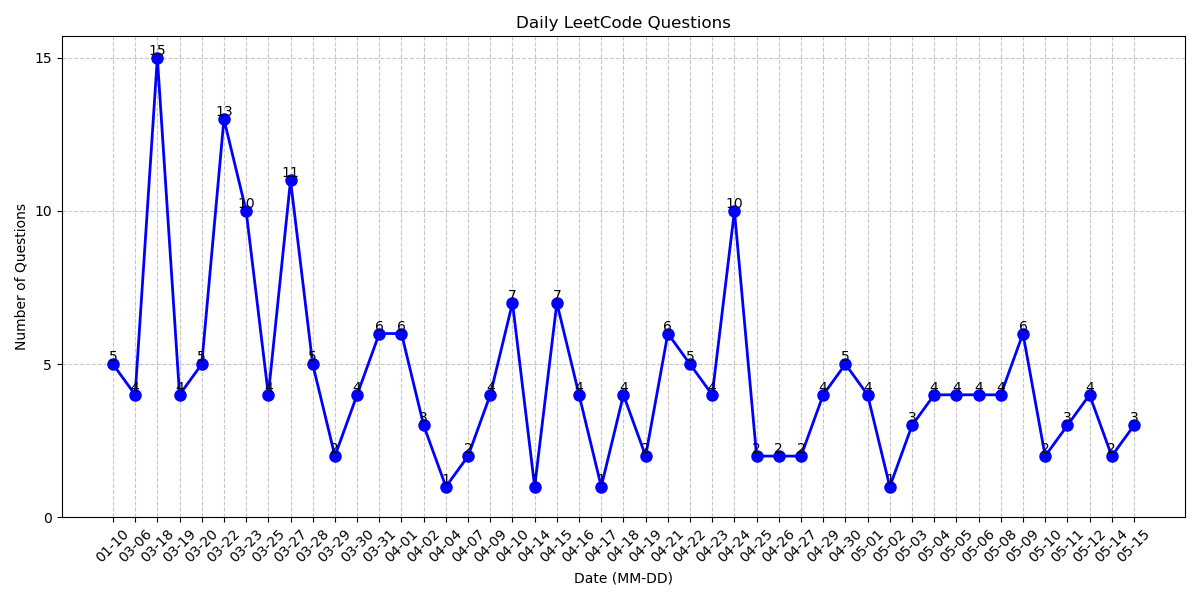
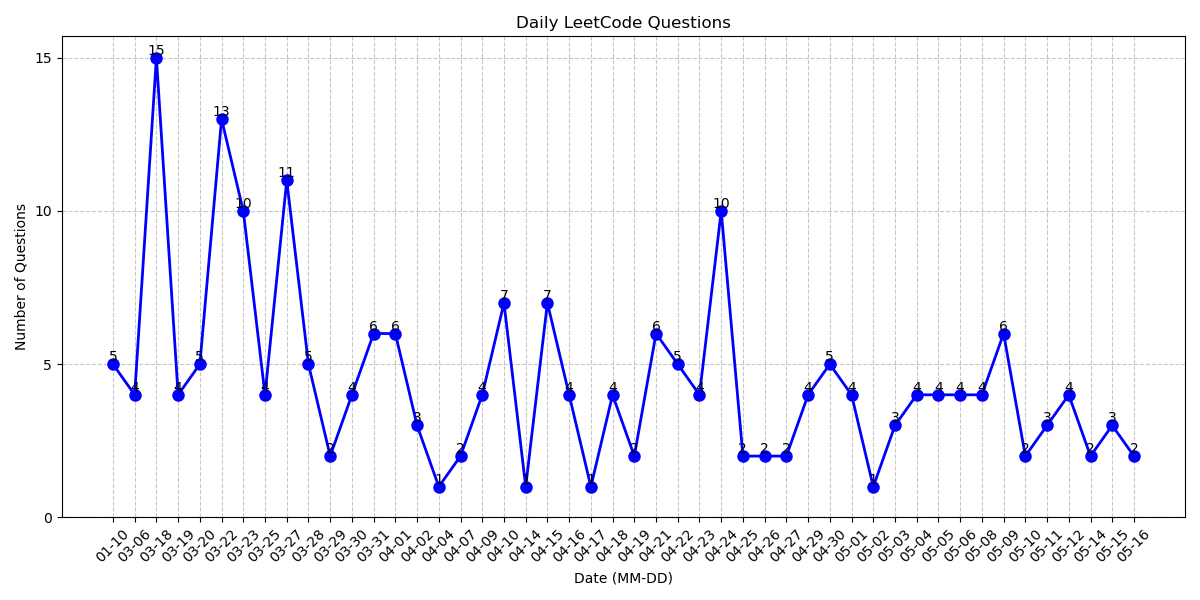
daily pratices

Changed region(s): [[0.1233, 0.06, 0.9558, 0.84], [0.0925, 0.87, 0.9558, 0.96]]

diff --git a/DynamicProgramming/2901. Longest Unequal Adjacent Groups Subsequence II.cpp b/DynamicProgramming/2901. Longest Unequal Adjacent Groups Subsequence II.cpp
@@ -1,0 +1,59 @@
+/*
+    1. dp[i] 往前看 j 個尋找 max(dp[j]), dp[i] = max(dp[j]) + 1
+    dp[pair<(i, 上一個j)>]
+    每次比較都是
+    1. same length?
+    2. is hamming distance ?
+    3. group 不同?
+
+    O(n^2)
+*/
+class Solution {
+  public:
+	vector<string> getWordsInLongestSubsequence(vector<string> &words,
+	                                            vector<int> &groups) {
+		vector<pair<int, int>> dp(words.size());
+		dp[0] = {1, -1};
+		for (int i = 1; i < words.size(); ++i) {
+			pair<int, int> prefix = {0, -1};
+			for (int j = i - 1; j >= 0; --j) {
+				if (words[i].length() != words[j].length() ||
+				    groups[i] == groups[j])
+					continue;
+				if (words[i] == words[j]) {
+					if (dp[j].first > prefix.first)
+						prefix = {dp[j].first, j};
+					continue;
+				}
+				int ham_dis = 0;
+				for (int k = 0; k < words[i].length(); ++k) {
+					if (words[i][k] != words[j][k])
+						++ham_dis;
+					if (ham_dis > 1)
+						break;
+				}
+				if (ham_dis <= 1 && dp[j].first > prefix.first)
+					prefix = {dp[j].first, j};
+			}
+			dp[i] = {prefix.first + 1, prefix.second};
+		}
+		pair<int, int> max_subseq = {INT_MIN, -1}; // {num, last_idx}
+		int idx = -1;
+		for (int i = 0; i < dp.size(); ++i) {
+			cout << dp[i].first << " ";
+			if (dp[i].first > max_subseq.first) {
+				max_subseq = dp[i];
+				idx = i;
+			}
+		}
+		cout << endl;
+		// 從這個index往前找
+		vector<string> res;
+		while (idx != -1) {
+			res.push_back(words[idx]);
+			idx = dp[idx].second;
+		}
+		reverse(res.begin(), res.end());
+		return res;
+	}
+};

diff --git a/BinarySearch/69. Sqrt(x).cpp b/BinarySearch/69. Sqrt(x).cpp
@@ -1,0 +1,23 @@
+/*
+    0 ~ x find lower bound m * m >= x
+*/
+class Solution {
+  public:
+	int mySqrt(int x) {
+		if (x == 0)
+			return 0;
+		long long l = 1;
+		long long r = x;
+		while (l < r) {
+			long long m = (l + r) / 2;
+			long long sqrt = m * m;
+
+			// upper bond
+			if (sqrt > x)
+				r = m;
+			else
+				l = m + 1;
+		}
+		return r * r == x ? r : r - 1;
+	}
+};

diff --git a/README.md b/README.md
@@ -1,7 +1,7 @@
 # LeetCode Problems
 
 ❌  can't resolve without solution: 19
-📝  can't resolve without hint: 153
+📝  can't resolve without hint: 155
 ✅  resolve by self: 28
 ## Tree
 - ❌ 105. Construct Binary Tree from Preorder and Inorder Traversal
@@ -42,6 +42,7 @@
 
 ## BinarySearch
 - ❌ 2071. Maximum Number of Tasks You Can Assign
+- 📝 69. Sqrt(x)
 - 📝 findMinRotatArr
 - 📝 34. Find First and Last Position of Element in Sorted Array
 - 📝 EatBanans
@@ -221,6 +222,7 @@
 - 📝 790. Domino and Tromino Tiling
 - 📝 309. Best Time to Buy and Sell Stock with Cooldown
 - 📝 91.DecodeStr
+- 📝 2901. Longest Unequal Adjacent Groups Subsequence II
 - 📝 LongestIncreasingPathMatrix
 - 📝 houseRobber2
 - 📝 494. Target Sum
@@ -236,7 +238,7 @@
 - 📝 2574. Left and Right Sum Differences
 
 ## Statistics
-Current total questions: 200
+Current total questions: 202
 
 <img src="chart.png" alt="questions bar chart" width="500">
 
